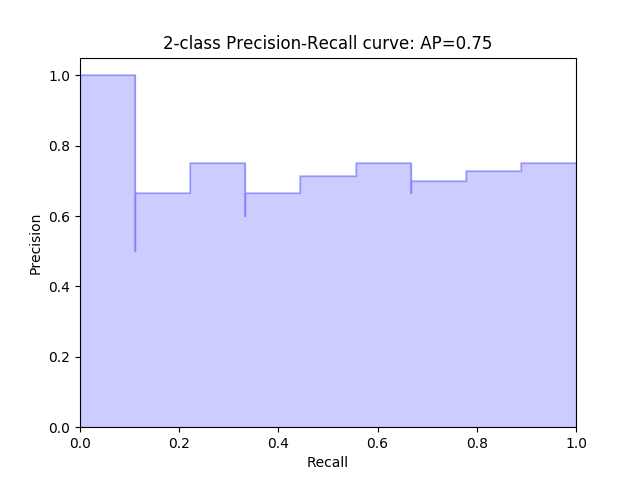
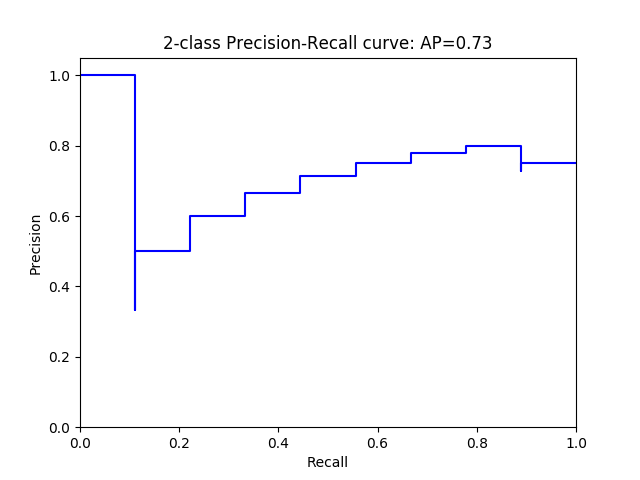
Added new pages

diff --git a/templates/train_test.html b/templates/train_test.html
@@ -15,6 +15,24 @@
     </li>
 {% endblock %}
 
+{ % block navbar %}
+        {% block navbar %}
+            <li class="nav-item">
+              <a class="nav-link nav-broad" href="/">Home
+                <span class="sr-only">(current)</span>
+              </a>
+            </li>
+            <li class="nav-item nav-broad active">
+              <a class="nav-link" href="/svm">Train & Test</a>
+            </li>
+            <li class="nav-item nav-broad">
+              <a class="nav-link" href="#">News Data Collection</a>
+            </li>
+              {% endblock %}
+{ % endblock %}
+
+
+
 {% block container %}
           <h1 class="mt-5">Update the page with contents</h1>
           <p>

diff --git a/templates/base.html b/templates/base.html
@@ -40,6 +40,7 @@
       <div class="container">
         <div class="collapse navbar-collapse" id="navbarResponsive">
           <ul class="navbar-nav ml-auto">
+              {% block navbar %}
             <li class="nav-item active">
               <a class="nav-link nav-broad" href="#">Home
                 <span class="sr-only">(current)</span>
@@ -51,6 +52,7 @@
             <li class="nav-item nav-broad">
               <a class="nav-link" href="#">News Data Collection</a>
             </li>
+              {% endblock %}
           </ul>
         </div>
       </div>

diff --git a/templates/naivebayes.html b/templates/naivebayes.html
@@ -1,4 +1,4 @@
-{% extends "base.html" %}
+{% extends "train_test.html" %}
 
 {% block sidebar_elements%}
 <li>
@@ -34,8 +34,7 @@
 <p>
     Chosen parameters from cross validation (5-fold):
 <ul>
-    <li>C: 10</li>
-    <li>Kernel: Linear</li>
+    <li>Alpha: 1</li>
 
 </ul>
 

diff --git a/templates/svm.html b/templates/svm.html
@@ -1,4 +1,4 @@
-{% extends "base.html" %}
+{% extends "train_test.html" %}
 
 {% block sidebar_elements%}
 <li>

diff --git a/main.py b/main.py
@@ -16,28 +16,65 @@ def read_file_xlsx(file_path):
 def read_file_csv(file_path):
     return pd.read_csv(file_path, index_col=0, encoding="utf-8")
 
+
+def get_baseline_svm(**kwargs):
+    classifier = TurkishFakeNewsClassifier(columns=["NewsDate", "Url", "NewsTitle", "News", "Value"],
+                                           model=MODELS_SVM, feature=FEATURES_TERM_FREQUENCY)
+    pipeline_params = {
+                           "model__C": 10,
+                           'model__kernel': 'linear',
+                           'adder__n_components': 30,
+                           'adder__n_iter': 10,
+                       }
+    pipeline_params.update(kwargs)
+    classifier.train(df, pipeline_params=pipeline_params)
+    return classifier
+
+
+def get_baseline_nb(**kwargs):
+    classifier = TurkishFakeNewsClassifier(columns=["NewsDate", "Url", "NewsTitle", "News", "Value"],
+                                           model=MODELS_NAIVE_BAYES, feature=FEATURES_TERM_FREQUENCY)
+    pipeline_params={
+                         "model__alpha": 1,
+                         'model__fit_prior': False,
+                         'adder__n_components': 30,
+                         'adder__n_iter': 10
+    }
+    pipeline_params.update(kwargs)
+    classifier.train(df, pipeline_params=pipeline_params)
+    return classifier
+
+
+def get_all_svm():
+    classifier = get_baseline_svm(**{# 'vectorizer__sublinear_tf': True,
+                           # 'vectorizer__smooth_idf': True,
+                           # 'vectorizer__ngram_range' : (1,2),
+                           "extractor__slang": True,
+                           'extractor__suffixes': True,
+                           'extractor__sentences_count': True,
+                           'extractor__punctuations': True
+                           })
+    return classifier
+
+
+def get_all_nb():
+    classifier = get_baseline_nb(**{# 'vectorizer__sublinear_tf': True,
+                           # 'vectorizer__smooth_idf': True,
+                           # 'vectorizer__ngram_range' : (1,2),
+                           "extractor__slang": True,
+                           'extractor__suffixes': True,
+                           'extractor__sentences_count': True,
+                           'extractor__punctuations': True
+                           })
+    return classifier
+
 if __name__ == "__main__":
     df = read_file_csv("TDFFN.csv")
 
     # import random
     # random.seed(10)
 
-    classifier = TurkishFakeNewsClassifier(columns=["NewsDate", "Url", "NewsTitle", "News", "Value"],
-                                           model=MODELS_SVM, feature=FEATURES_TERM_FREQUENCY)
-    classifier.train(df,
-                           pipeline_params={
-                               "model__C": 10,
-                               'model__kernel': 'linear',
-                               'adder__n_components': 30,
-                               'adder__n_iter': 10,
-                               # 'vectorizer__sublinear_tf': True,
-                               # 'vectorizer__smooth_idf': True,
-                               # 'vectorizer__ngram_range' : (1,2),
-                               "extractor__slang": True,
-                               'extractor__suffixes': True,
-                               # 'extractor__sentences_count': True,
-                               # 'extractor__punctuations': True
-                           })
+    classifier = get_baseline_svm()
     classifier.plot_precision_recall(True, "pr_rc_plot.png")
     classifier.plot_roc(True, "roc_svm.png")
 
@@ -47,24 +84,27 @@ if __name__ == "__main__":
 
     # Naive Bayes
 
-    classifier = TurkishFakeNewsClassifier(columns=["NewsDate", "Url", "NewsTitle", "News", "Value"],
-                                           model=MODELS_NAIVE_BAYES, feature=FEATURES_TERM_FREQUENCY)
-    classifier.train(df,
-                     pipeline_params={
-                         "model__alpha": 1,
-                         'model__fit_prior': False,
-                         'adder__n_components': 30,
-                         'adder__n_iter': 10,
-                         # 'vectorizer__sublinear_tf': True,
-                         # 'vectorizer__smooth_idf': True,
-                         # 'vectorizer__ngram_range' : (1,2),
-                         "extractor__slang": True,
-                         'extractor__suffixes': True,
-                         # 'extractor__sentences_count': True,
-                         # 'extractor__punctuations': True
-                     })
+    classifier = get_baseline_nb()
     classifier.plot_precision_recall(True, file_name="pr_rc_nb.png")
     classifier.plot_roc(True, "roc_nb.png")
+
+    # precision, recall and f1 score for baseline
+    p_b, r_b, f_b = classifier.get_precision_recall_f1()
+    print p_b, r_b, f_b
+
+
+    classifier = get_all_svm()
+    classifier.plot_precision_recall(True, file_name="pr_rc_svm_all.png")
+    classifier.plot_roc(True, "roc_svm_all.png")
+
+    # precision, recall and f1 score for baseline
+    p_b, r_b, f_b = classifier.get_precision_recall_f1()
+    print p_b, r_b, f_b
+
+
+    classifier = get_all_nb()
+    classifier.plot_precision_recall(True, file_name="pr_rc_nb_all.png")
+    classifier.plot_roc(True, "roc_nb_all.png")
 
     # precision, recall and f1 score for baseline
     p_b, r_b, f_b = classifier.get_precision_recall_f1()

diff --git a/Training/FakeNews.py b/Training/FakeNews.py
@@ -97,10 +97,10 @@ class TurkishFakeNewsClassifier:
         assert hasattr(self, "y_test") and hasattr(self, "y_score"), "Call this function only after train has been called"
         precision, recall, _ = precision_recall_curve(self.y_test, self.y_score)
 
-        plt.step(recall, precision, color='b', alpha=0.2,
+        plt.step(recall, precision, color='b' , # alpha=0.2,
                  where='post')
-        plt.fill_between(recall, precision, step='post', alpha=0.2,
-                         color='b')
+        # plt.fill_between(recall, precision, step='post', alpha=0.2,
+        #                  color='b')
 
         plt.xlabel('Recall')
         plt.ylabel('Precision')
